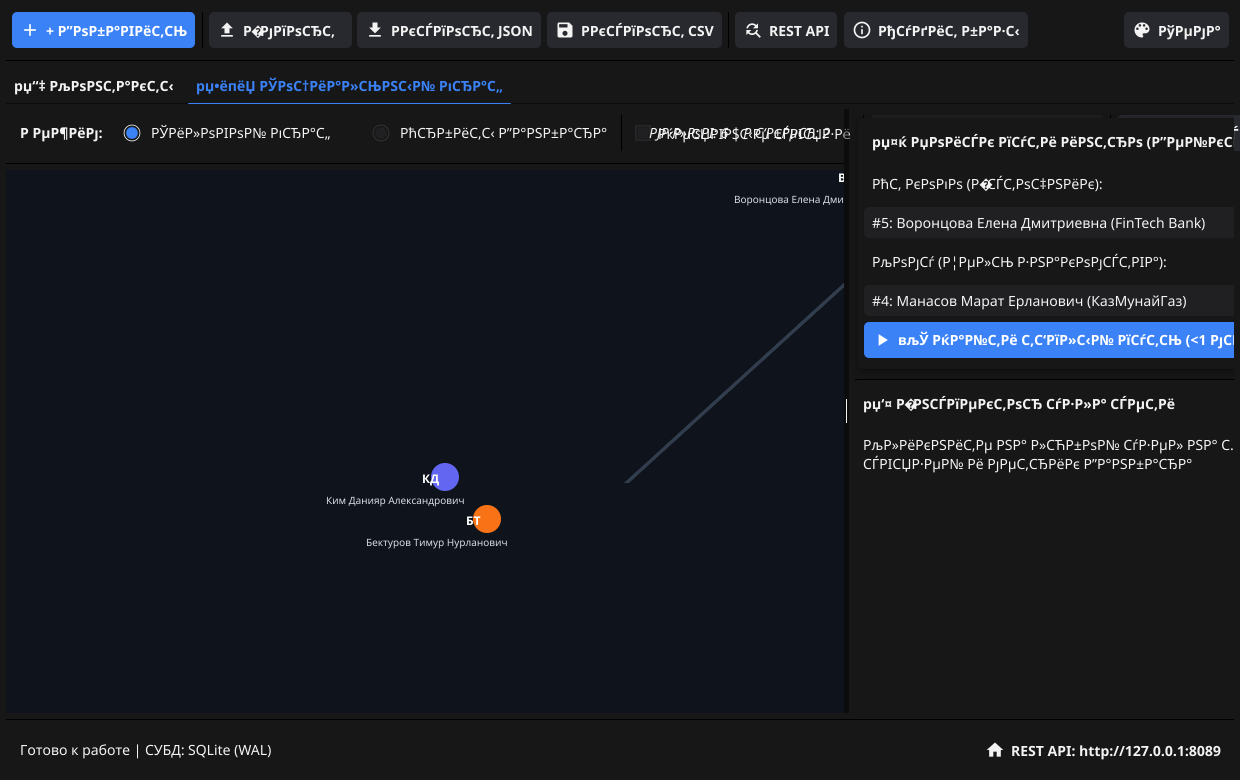
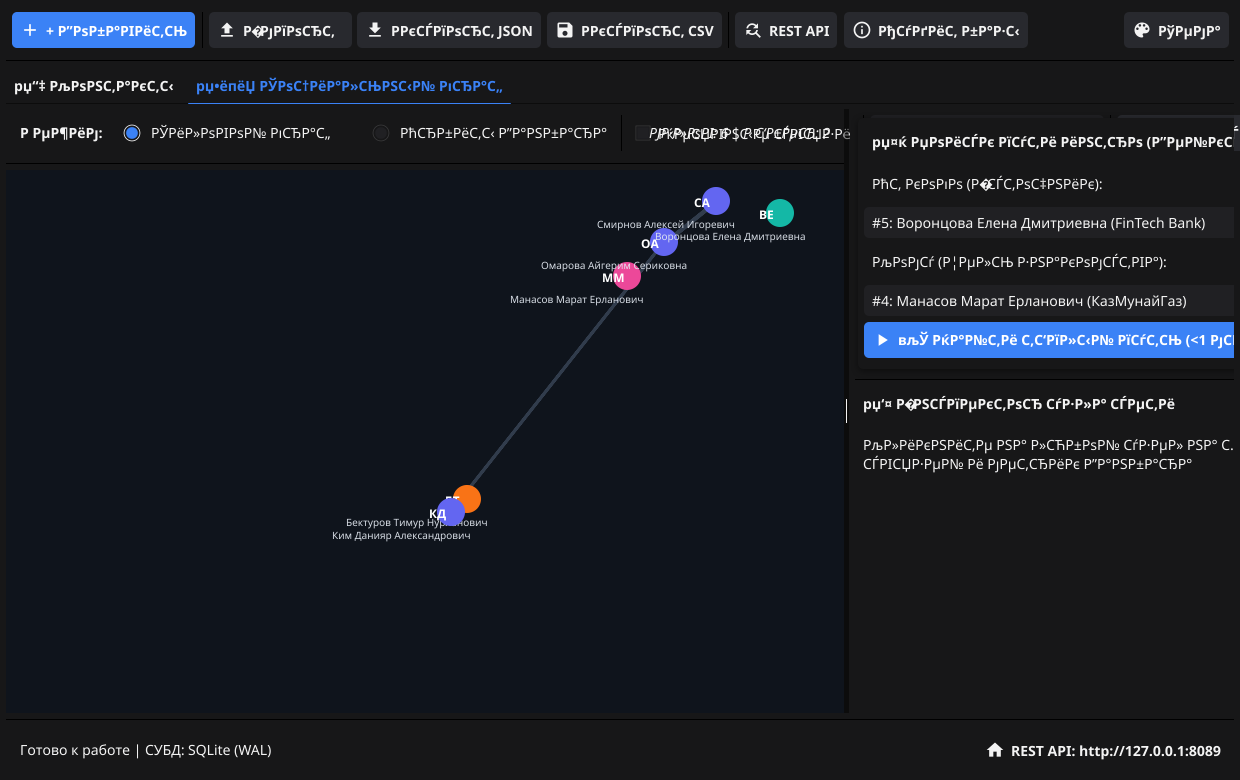
test(ui): isolate screenshot outputs to TempDir unless CAPTURE_SCREENSHOTS is set

diff --git a/internal/ui/ui_test.go b/internal/ui/ui_test.go
@@ -111,7 +111,11 @@ func TestFullAppUI_WithSocialGraphTabsAndScreenshots(t *testing.T) {
 	// РџСЂРѕРІРµСЂСЏРµРј Р·Р°С…РІР°С‚ СЃРєСЂРёРЅС€РѕС‚РѕРІ
 	outDir := os.Getenv("GOCONTACT_SCREENSHOT_DIR")
 	if outDir == "" {
-		outDir = filepath.Join("..", "..", "docs", "screenshots", "v0.2.0")
+		if os.Getenv("CAPTURE_SCREENSHOTS") == "1" {
+			outDir = filepath.Join("..", "..", "docs", "screenshots", "v0.2.0")
+		} else {
+			outDir = t.TempDir()
+		}
 	}
 
 	// 1. РЎРєСЂРёРЅС€РѕС‚ СЂРµР¶РёРјР° Force Graph
